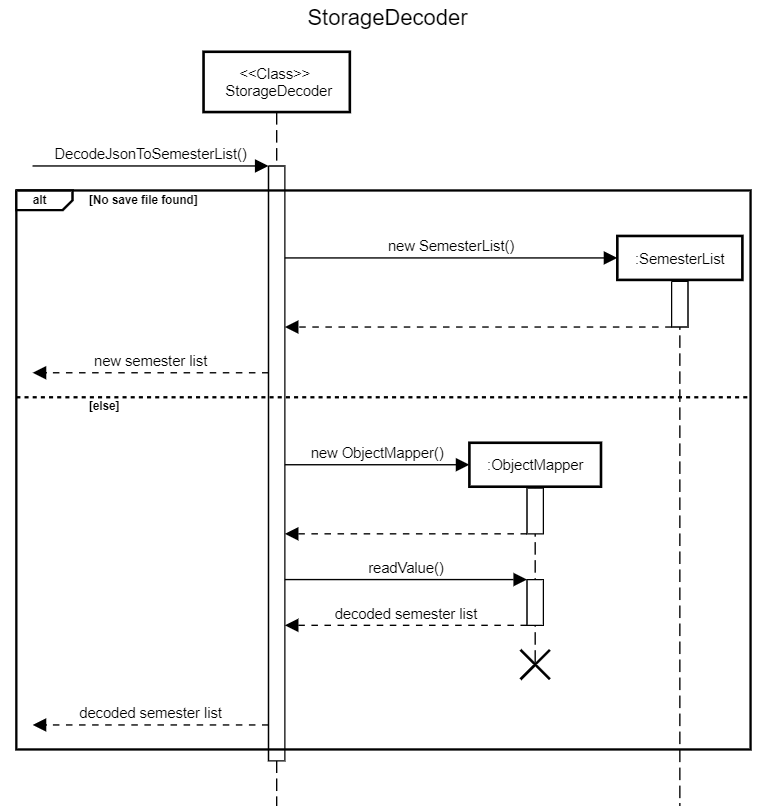
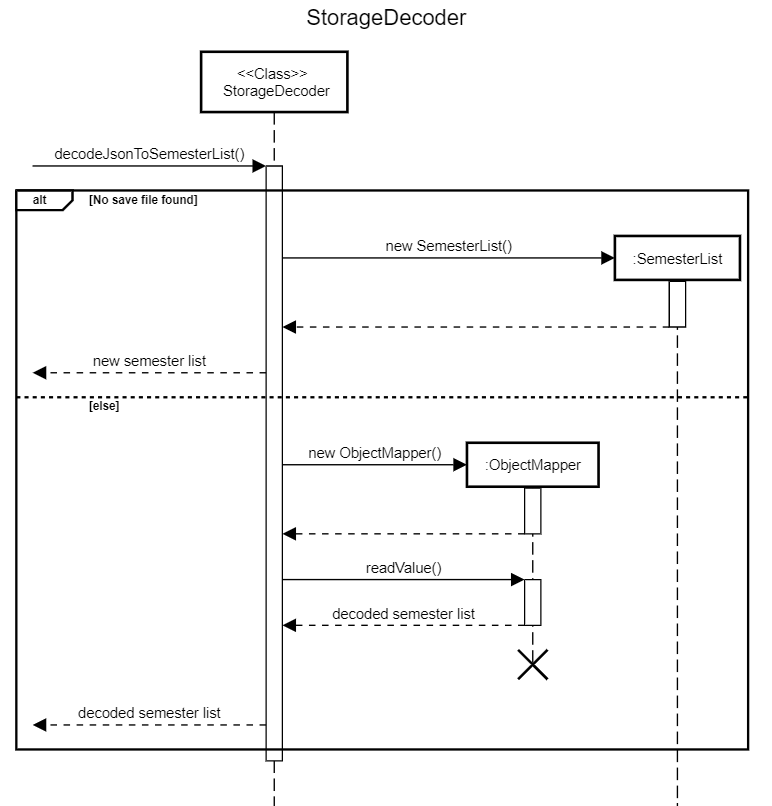
fix DG bugs

diff --git a/docs/team/naijie2108.md b/docs/team/naijie2108.md
@@ -77,13 +77,13 @@ How the `StorageEncoder` class works:
 3. Similarly, an empty file is created to store the data if it has not been created yet
 4. The parent object `SemesterList` is passed to the method to be converted into a JSON file with an `ObjectMapper`
    object from the  `jackson-databind` library
-5. Finally, the data file is saved in a default data directory.
+5. Upon completion, the data file is saved in a default data directory.
 
 **How the `StorageDecoder` class works:**
 
 ![alt_text](../media/StorageDecoderSequenceDiagram.png "image_tooltip")
 
-1. The static method `DecodeJsonToSemesterList()` from `StorageDecoder` is called when NoCap data needs to be loaded
+1. The static method `decodeJsonToSemesterList()` from `StorageDecoder` is called when NoCap data needs to be loaded
    from the save file
 2. If there is no save file available in the default data directory, a new `SemesterList `object is created and returned
    to the caller
@@ -102,7 +102,6 @@ _Class diagram for OverallTask and OverallTaskList_
 **Note**: Some methods are omitted from the class diagram to improve clarity
 
 The `OverallTaskList` class is instantiated from `ListParser` only when the end user needs to list available tasks in
-
 a `Semester`.
 
 How the `OverallTaskList` class works:
@@ -246,6 +245,7 @@ exploratory testing.
    Error reading save file, creating new template
    Welcome to NoCap
    ```
+
 ## List tasks in a semester
 
 1. List tasks when there are no available tasks

diff --git a/docs/DeveloperGuide.md b/docs/DeveloperGuide.md
@@ -117,13 +117,13 @@ How the `StorageEncoder` class works:
 3. Similarly, an empty file is created to store the data if it has not been created yet
 4. The parent object `SemesterList` is passed to the method to be converted into a JSON file with an `ObjectMapper`
    object from the  `jackson-databind` library
-5. Finally, the data file is saved in a default data directory.
+5. Upon completion, the data file is saved in a default data directory.
 
 **How the `StorageDecoder` class works:**
 
 ![alt_text](media/StorageDecoderSequenceDiagram.png "image_tooltip")
 
-1. The static method `DecodeJsonToSemesterList()` from `StorageDecoder` is called when NoCap data needs to be loaded
+1. The static method `decodeJsonToSemesterList()` from `StorageDecoder` is called when NoCap data needs to be loaded
    from the save file
 2. If there is no save file available in the default data directory, a new `SemesterList `object is created and returned
    to the caller
@@ -322,7 +322,6 @@ _Class diagram for OverallTask and OverallTaskList_
 **Note**: Some methods are omitted from the class diagram to improve clarity
 
 The `OverallTaskList` class is instantiated from `ListParser` only when the end user needs to list available tasks in
-
 a `Semester`.
 
 How the `OverallTaskList` class works:
